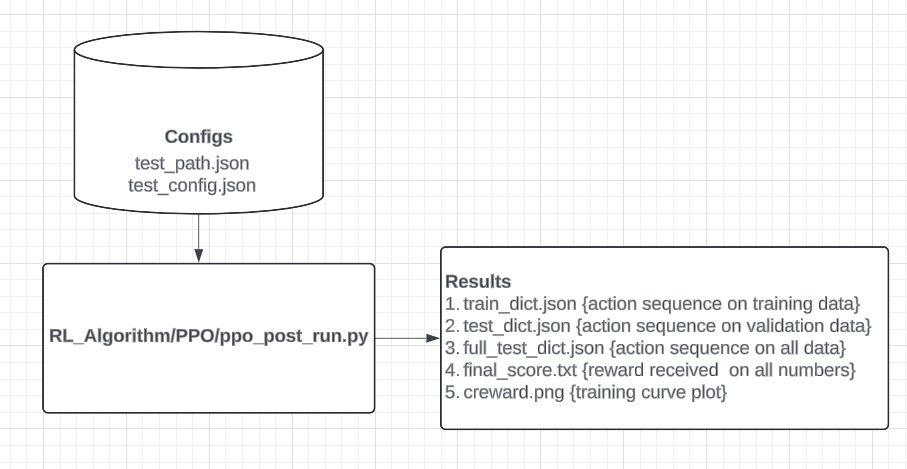
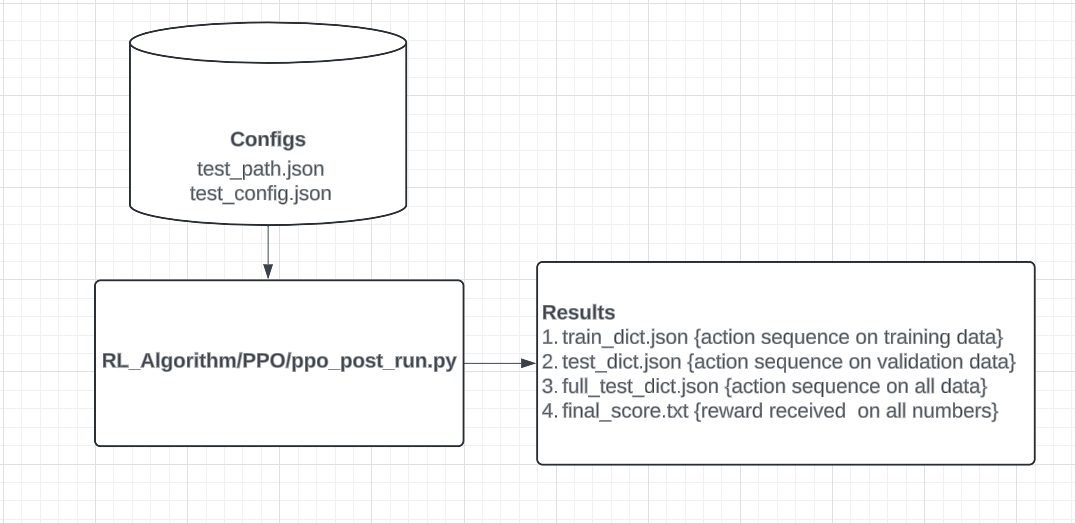
Automatic filename

diff --git a/Analysis/Plot_redx.py b/Analysis/Plot_redx.py
@@ -16,11 +16,11 @@ N_MODELS = 4
 prefix = ""
 label_arr = ['Model 1: Visual only', 'Model 2: Pretrained', 'Model 3: Language only', 'Model 4: Attention based']
 color_arr = ["blue", "green", "orange", "purple"]
-suffix_arr = ["", "_seed1", "_seed2"]
+seed_arr = ["", "_seed1", "_seed2"]
 smooth_factor = 0.5
 
 '''
-    Extract reward from final_score.txt
+    Extract reward from final_score*
 '''
 def extract_hist(filename, type, test_type='[TEST]'):
     def avg(a, b):
@@ -99,91 +99,95 @@ def extract_hist(filename, type, test_type='[TEST]'):
 '''
     Tr curve plot.
 '''
-def tr_curve(suffix=""):
-    plt.figure(figsize=(10,5))
-    ############## MODEL 0, 1, 2, 3 ############## 
-    for i in range(N_MODELS): # First three models.
-        y, x, n = [], [], 0
-        for j in range(len(suffix_arr)):
-            try:
-                with open(f"{prefix}train_model{i}_d3{suffix}.txt{suffix_arr[j]}", "r") as file:
-                    content = file.read()
-                    my_list = ast.literal_eval(content)
-                    n = len(my_list)
-                    y.append([ my_list[i][1] for i in range(n) ])
-                    x.append([ my_list[i][0] for i in range(n) ])
-            except Exception as e:
-                print(f'{prefix}train_model{i}_d3{suffix}.txt{suffix_arr[j]} missing.')
-        xn, y_mean, y_std = [], [], [] # store mean, std.
-        lb, avgMx_mean, avgR_prev = 0, 0, None 
-        y_sz = len(y) # no of seeds.
-        while lb < n: 
-            avgR_arr = []
-            for y_indx in range(y_sz):
-                value = y[y_indx][lb]
-                avgR_arr.append(value)
-            avgR = sum(avgR_arr)/y_sz
-            avg_std = math.sqrt(sum([(x-avgR)**2 for x in avgR_arr])/y_sz)
-            avgMx_mean = avgR_prev if avgR_prev and avgR_prev - avgR > smooth_factor else avgR
-            avgR_prev = avgMx_mean
-            xn.append(x[0][lb])
-            y_mean.append(avgMx_mean) 
-            y_std.append(avg_std)
-            lb += 1
-        plt.plot(xn, y_mean, linestyle = '-', label = f'{label_arr[i]}', color = f'{color_arr[i]}')
-        plt.fill_between(xn, (np.array(y_mean)-np.array(y_std)), \
-                            (np.array(y_mean)+np.array(y_std)),\
-                            alpha=.2, color = f'{color_arr[i]}')
-    plt.xlabel('Epochs')
-    plt.ylabel('Cumulative Reward')
-    plt.legend(loc = 'upper left', fontsize = 8)
-    plt.savefig(f'{prefix}TrInstr1{suffix}.png', dpi = image_resolution)
-    plt.show()
+def tr_curve():
+    suffix_arr = ["", "s"]
+    for suffix in suffix_arr:
+        plt.figure(figsize=(10,5))
+        ############## MODEL 0, 1, 2, 3 ############## 
+        for i in range(N_MODELS): # First three models.
+            y, x, n = [], [], 0
+            for j in range(len(seed_arr)):
+                try:
+                    with open(f"{prefix}train_model_d3_{i}{suffix}.json{seed_arr[j]}", "r") as file:
+                        content = file.read()
+                        my_list = ast.literal_eval(content)
+                        n = len(my_list)
+                        y.append([ my_list[i][1] for i in range(n) ])
+                        x.append([ my_list[i][0] for i in range(n) ])
+                except Exception as e:
+                    print(f'{prefix}train_model_d3_{i}{suffix}.json{seed_arr[j]} missing.')
+            xn, y_mean, y_std = [], [], [] # store mean, std.
+            lb, avgMx_mean, avgR_prev = 0, 0, None 
+            y_sz = len(y) # no of seeds.
+            while lb < n: 
+                avgR_arr = []
+                for y_indx in range(y_sz):
+                    value = y[y_indx][lb]
+                    avgR_arr.append(value)
+                avgR = sum(avgR_arr)/y_sz
+                avg_std = math.sqrt(sum([(x-avgR)**2 for x in avgR_arr])/y_sz)
+                avgMx_mean = avgR_prev if avgR_prev and avgR_prev - avgR > smooth_factor else avgR
+                avgR_prev = avgMx_mean
+                xn.append(x[0][lb])
+                y_mean.append(avgMx_mean) 
+                y_std.append(avg_std)
+                lb += 1
+            plt.plot(xn, y_mean, linestyle = '-', label = f'{label_arr[i]}', color = f'{color_arr[i]}')
+            plt.fill_between(xn, (np.array(y_mean)-np.array(y_std)), \
+                                (np.array(y_mean)+np.array(y_std)),\
+                                alpha=.2, color = f'{color_arr[i]}')
+        plt.xlabel('Epochs')
+        plt.ylabel('Cumulative Reward')
+        plt.legend(loc = 'upper left', fontsize = 8)
+        plt.savefig(f'{prefix}TrInstr1{suffix}.png', dpi = image_resolution)
+        plt.show()
 
 
 '''
     Plot 3 digit numbers state vs policy based.
 '''
-def digit3_plot(suffix=""):
+def digit3_plot():
     ''' 
     Train.
     '''
-    plt.figure(figsize=(10,5))
-    ############## MODEL 0, 1, 2, 3 ##############     
-    for i in range(N_MODELS): 
-        color_arr = ["blue", "green", "orange", "purple"]
-        label_arr = ["Model 1: Visual only", "Model 2: Pretrained", "Model 3: Language only", "Model 4: Attention based"]
-        try:
-            x_bin, ytr, ytest = extract_hist(f"{prefix}console_output_digit3_{i}{suffix}", 3, test_type="[FULLTEST]")
-            plt.bar(np.array(x_bin) + i * bar_width, ytr, bar_width, color = color_arr[i], label = label_arr[i])
-            plt.xticks(np.array(x_bin) + bar_width , ("0-99", "100-199", "200-299", "300-399", "400-499", "500-599",
-                                                            "600-699", "700-799", "800-899", "900-999"))        
-        except Exception as e:
-            print(f'{prefix}console_output_digit3_{i}{suffix} missing.')
-    plt.legend(loc="upper left", fontsize=8)
-    plt.xlabel("Upto 3 digit numbers.")
-    plt.ylabel("Average reward.")
-    plt.title("Train Dataset.")
-    plt.savefig(f'{prefix}3Digit{suffix}Train.png', dpi=image_resolution)
-    plt.show()
-    ''' 
-    Test.
-    '''
-    plt.figure(figsize=(10,5))
-    for i in range(N_MODELS):
-        try:
-            x_bin, ytr, ytest = extract_hist(f"{prefix}console_output_digit3_{i}{suffix}", 3, test_type="[FULLTEST]")
-            plt.bar(np.array(x_bin) + i * bar_width, ytest, bar_width, color = color_arr[i], label = label_arr[i])
-            plt.xticks(np.array(x_bin) + bar_width , ("0-99", "100-199", "200-299", "300-399", "400-499", "500-599",
-                                                      "600-699", "700-799", "800-899", "900-999"))
-        except Exception as e:
-            print(f'{prefix}console_output_digit3_{i}{suffix} missing.')
-    plt.legend(loc = "upper left", fontsize=8)
-    plt.xlabel("Upto 3 digit numbers.")
-    plt.ylabel("Average reward.")
-    plt.title("Test Dataset.")
-    plt.savefig(f'{prefix}3Digit{suffix}Test.png', dpi=image_resolution)
-    plt.show()
+    suffix_arr = ["", "s"]
+    for suffix in suffix_arr:
+        plt.figure(figsize=(10,5))
+        ############## MODEL 0, 1, 2, 3 ##############     
+        for i in range(N_MODELS): 
+            color_arr = ["blue", "green", "orange", "purple"]
+            label_arr = ["Model 1: Visual only", "Model 2: Pretrained", "Model 3: Language only", "Model 4: Attention based"]
+            try:
+                x_bin, ytr, ytest = extract_hist(f"{prefix}final_score_d3_{i}{suffix}", 3, test_type="[FULLTEST]")
+                plt.bar(np.array(x_bin) + i * bar_width, ytr, bar_width, color = color_arr[i], label = label_arr[i])
+                plt.xticks(np.array(x_bin) + bar_width , ("0-99", "100-199", "200-299", "300-399", "400-499", "500-599",
+                                                                "600-699", "700-799", "800-899", "900-999"))        
+            except Exception as e:
+                print(f'{prefix}final_score_d3_{i}{suffix} missing.')
+        plt.legend(loc="upper left", fontsize=8)
+        plt.xlabel("Upto 3 digit numbers.")
+        plt.ylabel("Average reward.")
+        plt.title("Train Dataset.")
+        plt.savefig(f'{prefix}3Digit_{suffix}_Train.png', dpi=image_resolution)
+        plt.show()
+        ''' 
+        Test.
+        '''
+        plt.figure(figsize=(10,5))
+        for i in range(N_MODELS):
+            try:
+                x_bin, ytr, ytest = extract_hist(f"{prefix}final_score_d3_{i}{suffix}", 3, test_type="[FULLTEST]")
+                plt.bar(np.array(x_bin) + i * bar_width, ytest, bar_width, color = color_arr[i], label = label_arr[i])
+                plt.xticks(np.array(x_bin) + bar_width , ("0-99", "100-199", "200-299", "300-399", "400-499", "500-599",
+                                                        "600-699", "700-799", "800-899", "900-999"))
+            except Exception as e:
+                print(f'{prefix}final_score_d3_{i}{suffix} missing.')
+        plt.legend(loc = "upper left", fontsize=8)
+        plt.xlabel("Upto 3 digit numbers.")
+        plt.ylabel("Average reward.")
+        plt.title("Test Dataset.")
+        plt.savefig(f'{prefix}3Digit_{suffix}_Test.png', dpi=image_resolution)
+        plt.show()
 
 
 '''
@@ -197,19 +201,19 @@ def state_vs_policy():
     '''
     plt.figure(figsize=(10,5))
     try:
-        x_bin, ytr, ytest = extract_hist(f"{prefix}console_output_digit3_3", 3, test_type="[FULLTEST]")
+        x_bin, ytr, ytest = extract_hist(f"{prefix}final_score_d3_3", 3, test_type="[FULLTEST]")
         plt.bar(np.array(x_bin), ytr, bar_width, color="red", label = "Attention Policy based")
         plt.xticks(np.array(x_bin) + bar_width , ("0-99", "100-199", "200-299", "300-399", "400-499", "500-599",
                                                    "600-699", "700-799", "800-899", "900-999"))
     except Exception as e:
-        print(f'{prefix}console_output_digit3_3 missing.')
+        print(f'{prefix}final_score_d3_3 missing.')
     try:
-        x_bin, ytr, ytest = extract_hist(f"{prefix}console_output_digit3_3_sr", 3, test_type="[FULLTEST]")
+        x_bin, ytr, ytest = extract_hist(f"{prefix}final_score_d3_3_s", 3, test_type="[FULLTEST]")
         plt.bar(np.array(x_bin) + bar_width, ytr, bar_width, color="blue", label = "Attention State based")
         plt.xticks(np.array(x_bin) + bar_width , ("0-99", "100-199", "200-299", "300-399", "400-499", "500-599",
                                                    "600-699", "700-799", "800-899", "900-999"))
     except Exception as e:
-        print(f'{prefix}console_output_digit3_3_sr missing.')
+        print(f'{prefix}final_score_d3_3_s missing.')
     plt.legend(fontsize=8)
     plt.xlabel("Upto 3 digit numbers.")
     plt.ylabel("Average reward.")
@@ -221,20 +225,20 @@ def state_vs_policy():
     '''
     plt.figure(figsize=(10,5))
     try:
-        x_bin, ytr, ytest = extract_hist(f"{prefix}console_output_digit3_3", 3, test_type="[FULLTEST]")
+        x_bin, ytr, ytest = extract_hist(f"{prefix}final_score_d3_3", 3, test_type="[FULLTEST]")
         plt.bar(np.array(x_bin), ytest, bar_width, color="red", label = "Attention Policy based")
         plt.xticks(np.array(x_bin) + bar_width , ("0-99", "100-199", "200-299", "300-399", "400-499", "500-599",
               
                                                    "600-699", "700-799", "800-899", "900-999"))
     except Exception as e:
-        print(f'{prefix}console_output_digit3_3 missing.')
+        print(f'{prefix}final_score_d3_3 missing.')
     try:
-        x_bin, ytr, ytest = extract_hist(f"{prefix}console_output_digit3_3_sr", 3, test_type="[FULLTEST]")
+        x_bin, ytr, ytest = extract_hist(f"{prefix}final_score_d3_3_s", 3, test_type="[FULLTEST]")
         plt.bar(np.array(x_bin) + bar_width, ytest, bar_width, color="blue", label = "Attention State based")
         plt.xticks(np.array(x_bin) + bar_width , ("0-99", "100-199", "200-299", "300-399", "400-499", "500-599",
                                                    "600-699", "700-799", "800-899", "900-999"))
     except Exception as e:
-        print(f'{prefix}console_output_digit3_3_sr missing.')
+        print(f'{prefix}final_score_d3_3_s missing.')
     plt.legend(fontsize=8)
     plt.xlabel("Upto 3 digit numbers.")
     plt.ylabel("Average reward.")
@@ -247,8 +251,6 @@ def state_vs_policy():
     Driver Function.
 '''
 if __name__ == '__main__':
-    option = "s" if sys.argv[1] == "state" else ""
-    tr_curve(option)
-    option = "_sr" if sys.argv[1] == "state" else ""
-    digit3_plot(option)
+    tr_curve()
+    digit3_plot()
     state_vs_policy()

diff --git a/RL_Algorithm/PPO/ppo_post_run.py b/RL_Algorithm/PPO/ppo_post_run.py
@@ -17,8 +17,11 @@ import gym_examples
 import copy
 import model_simple as M_Simp
 
-logging.basicConfig(filename='Results/final_score.txt', filemode='w', level = logging.INFO, format='%(asctime)3s - %(filename)s:%(lineno)d - %(message)s')
-LOG = logging.getLogger(__name__)
+LOG = None 
+def create_result_file(y: int, z: str):
+    global LOG 
+    logging.basicConfig(filename=f'Results/final_score_d3_{y}{z}', filemode='w', level = logging.INFO, format='%(asctime)3s - %(filename)s:%(lineno)d - %(message)s')
+    LOG = logging.getLogger(__name__)
 
 # def plot_ppo(ip,op):
 #     arr=[]
@@ -93,6 +96,7 @@ if __name__=='__main__':
     FOR NEW TYPE OF INSTRUCTION (START)
     '''
     instr_type = "policy" if args["instr_type"] == 0 else "state"
+    create_result_file(args["model"], "" if args["instr_type"] == 0 else "s")
     if instr_type == "state":
         for model_to_test in models_to_test:
             for id, model in enumerate(model_to_test):

diff --git a/RL_Algorithm/PPO/ppo.py b/RL_Algorithm/PPO/ppo.py
@@ -298,7 +298,7 @@ if __name__=='__main__':
             if frame_idx % 50000 == 0:
                 test_reward = np.mean([test_env(model) for _ in range(1)])
                 test_rewards.append([frame_idx,test_reward])
-                with open(f'Results/reward_list_{suffix[args["model"]][args["ease"]]}.json', 'w') as file:
+                with open(f'Results/train_model_d3_{args["model"]}{"" if args["instr_type"] == 0 else "s"}.json', 'w') as file:
                     json.dump(test_rewards, file)
                 if test_reward > threshold_reward: early_stop = True
             if frame_idx % 50000 == 0:

diff --git a/README.md b/README.md
@@ -22,17 +22,16 @@
 5. Run from the main directory ~ **python3 -W ignore RL_Algorithm/PPO/ppo_post_run.py &**. This is used to generate results after the model has been trained.
 
 **Analysis**
-1. You can generate your own code for custom analysis. To reproduce our results copy `Results/final_score.txt` and `Results/reward_list_*` to **Analysis** folder. 
-2. Rename `final_score.txt` as `console_output_digit{x}_{y}{z1}` and `reward_list_*` as `train_model{y}_d{x}{z2}.txt{a}`
-
-Where, <br />
-{a} -> {"", "seed_0", "seed_1", ... } <br />
-{x} -> no of digits: {1, 2, 3} <br />
-{y} -> model number: {0, 1, 2, 3} <br />
-{z1}-> {"sate": "s", "policy":""} <br />
-{z2}-> {"state": "s", "policy":""} <br />
-
-For example:-
-final_score.txt will change to console_output_digit3_3 if 3 digit numbers are present, if the model id is 3 and if instruction type is "policy". 
+1. You can generate your own code for custom analysis. To reproduce our results copy `Results/final_score_*` and `Results/train_model_*` to **Analysis** folder. 
+2. Append {a} to `train_model_*.json{a}` in Analysis folder.
+   Where, <br />
+   {a} -> {"", "seed_0", "seed_1", ... } <br />
+   <!--{x} -> no of digits: {1, 2, 3} <br />
+   {y} -> model number: {0, 1, 2, 3} <br />
+   {z} -> {"sate": "s", "policy":""} <br />  -->
  
-3. Run **python3 Plot_redx.py policy** or **python3 Plot_redx.py state** inside the container based on whether instruction type is `(policy/state)`.
+3. Run **python3 Plot_redx.py** inside the container.
+4. To create consolidated graphs modify **train_config.json** and **test_config.json**, by trying out all the combinations below.  
+model number $\epsilon$ {0, 1, 2, 3}<br />
+instr_type $\epsilon$ {0, 1}<br />
+Do step 1. & 2.
